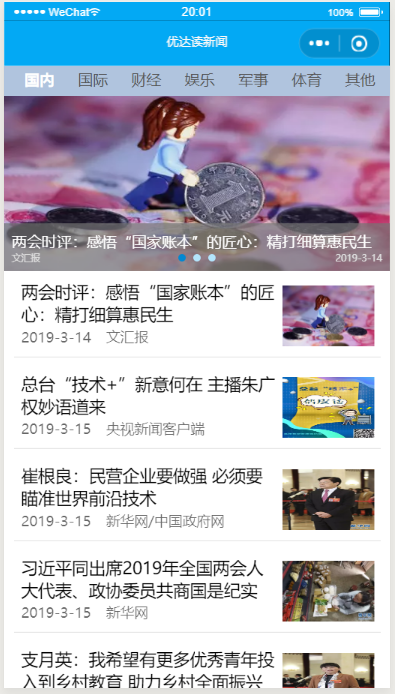
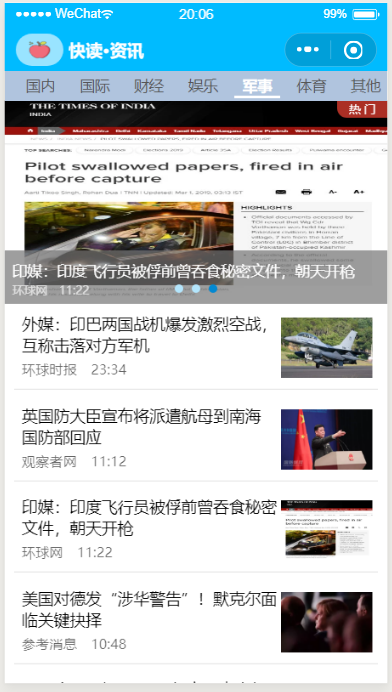
based on suggestions, change page design and effect

diff --git a/pages/index/index.js b/pages/index/index.js
@@ -9,6 +9,11 @@ const categoryMap = {
     'ty': '体育',
     'other': '其他',
 }
+//用于转换时间显示
+const formatNumber = n => {
+  n = n.toString()
+  return n[1] ? n : '0' + n
+}
 
 Page({
     data: {
@@ -21,21 +26,23 @@ Page({
         //     firstImage: 'http://inews.gtimg.com/newsapp_bt/0/3199649303/641'
         // }]
         swiperImgUrlList: [],
-        //category: 'gn', // str 当前类别
-        //selectedNewsType: '',
-        selectedCategory: 'gn', // str 当前类别
+        selectedCategory: 'gn', // str 当前类别，所选的类别
         categoryList: [
             { 'en': 'gn', 'cn': '国内' }
         ], // dict 类别字典
     },
 
     // 首次加载
+    //onLoad() 生命周期函数--监听页面加载，小程序注册完成后，加载页面，触发onLoad方法。
+    //调用时，设定新闻类别，再获取所选类别的新闻。
     onLoad() {
         this.setCategory()
         this.getNews()
     },
 
     // 设定顶部导航栏
+    // 将categoryMap中的值放进页面data的categoryList中
+    // categoryList中的数据在页面会被显示为导航栏内容，wxml中有显示的设置。
     setCategory() {
         let categoryList = []
         for (var key in categoryMap) {
@@ -48,8 +55,9 @@ Page({
             categoryList: categoryList
         })
     },
-//<div>Icons in the "images" folder made by <a href="https://www.flaticon.com/authors/flat-icons" title="Flat Icons">Flat Icons</a> from <a href="https://www.flaticon.com/"     title="Flaticon">www.flaticon.com</a></div>
+
     // 获取新闻列表
+    // 从新闻源获取新闻，由于用的Udacity提供的新闻源，并已定义好type，将selectedCategory传入，获取到相应栏目的新闻列表。
     getNews(callback) {
         wx.request({
             url: 'https://test-miniprogram.com/api/news/list',
@@ -60,7 +68,6 @@ Page({
             'content-type': 'application/json' // 默认值
             },
             success: res => {
-              //console.info(res); //print
               let newsContent = res.data.result;
               // 随机排序，模拟获取到的新闻列表发生变化，测试pulldownrefresh
               newsContent.sort(this.randomsort)
@@ -86,8 +93,9 @@ Page({
   setNewsList(newsContent) {
     let newsList = []
     newsContent.forEach(d => {
-      let newsDate = new Date(d.date);
-      d.date = `${newsDate.getFullYear()}-${newsDate.getMonth() + 1}-${newsDate.getDate()}`
+      let newsDate = new Date(d.date); //生成符合格式要求的时间信息
+      //d.date = `${newsDate.getFullYear()}-${newsDate.getMonth() + 1}-${newsDate.getDate()}`
+      d.date = [newsDate.getHours(), newsDate.getMinutes()].map(formatNumber).join(':')
     })
     for (let i = 0; i < newsContent.length; i += 1) {
       newsList.push({
@@ -96,7 +104,7 @@ Page({
         //time: moment(newsContent[i].date).fromNow(),
         time: newsContent[i].date,
         source: newsContent[i].source || '', //值不存在的情况
-        firstImage: newsContent[i].firstImage || "/images/news-img.png", //值不存在的情况
+        firstImage: newsContent[i].firstImage || "/images/006-apple.png", //值不存在的情况
             })
         }
         this.setData({
@@ -105,6 +113,7 @@ Page({
         })
     },
     // 变更当前栏目
+    // 点选的栏目赋值给selectedCategory
     onTapCategory(event) {
       this.setData({
         selectedCategory: event.currentTarget.dataset.category
@@ -112,6 +121,8 @@ Page({
         this.getNews()
     },
     // 跳转到详情页面
+    // 点选的新闻通过newsid在详情页面显示相应的新闻。
+    // newsid在wxml中有定义。
     onTapNews(event) {
         let newsID = event.currentTarget.dataset.newsid
         wx.navigateTo({
@@ -119,11 +130,13 @@ Page({
         })
     },
     // 下拉刷新
+    // 在index.json中将enablePullDownRefresh设为true，开启index页面的下拉刷新
+    // 用onPullDownRefresh()函数监听下拉动作，刷到新闻后，wx.stopPullDownRefresh()停止下拉刷新效果
     onPullDownRefresh() {
-        console.log("refresh executed!")
-
+        //console.log("refresh executed!")
         this.getNews(() => {
             wx.stopPullDownRefresh()
         })
     },
 })
+

diff --git a/components/navBar/navBar.js b/components/navBar/navBar.js
@@ -1,0 +1,103 @@
+// pages/navBar/navBar.js
+Component({
+  /**
+   * 组件的属性列表
+   */
+  properties: {
+    background: {
+      type: String,
+      value: 'rgba(255, 255, 255, 1)'
+    },
+    color: {
+      type: String,
+      value: 'rgba(0, 0, 0, 1)'
+    },
+    titleText: {
+      type: String,
+      value: '导航栏'
+    },
+    titleImg: {
+      type: String,
+      value: ''
+    },
+    backIcon: {
+      type: String,
+      value: ''
+    },
+    homeIcon: {
+      type: String,
+      value: ''
+    },
+    fontSize: {
+      type: Number,
+      value: 16
+    },
+    iconHeight: {
+      type: Number,
+      value: 19
+    },
+    iconWidth: {
+      type: Number,
+      value: 58
+    }
+  },
+  attached: function () {
+    var that = this;
+    that.setNavSize();
+    that.setStyle();
+  },
+  data: {
+
+  },
+  methods: {
+    // 通过获取系统信息计算导航栏高度
+    setNavSize: function () {
+      var that = this
+        , sysinfo = wx.getSystemInfoSync()
+        , statusHeight = sysinfo.statusBarHeight
+        , isiOS = sysinfo.system.indexOf('iOS') > -1
+        , navHeight;
+      if (!isiOS) {
+        navHeight = 48;
+      } else {
+        navHeight = 44;
+      }
+      that.setData({
+        status: statusHeight,
+        navHeight: navHeight
+      })
+    },
+    setStyle: function () {
+      var that = this
+        , containerStyle
+        , textStyle
+        , iconStyle;
+      containerStyle = [
+        'background:' + that.data.background
+      ].join(';');
+      textStyle = [
+        'color:' + that.data.color,
+        'font-size:' + that.data.fontSize + 'px'
+      ].join(';');
+      iconStyle = [
+        'width: ' + that.data.iconWidth + 'px',
+        'height: ' + that.data.iconHeight + 'px'
+      ].join(';');
+      that.setData({
+        containerStyle: containerStyle,
+        textStyle: textStyle,
+        iconStyle: iconStyle
+      })
+    },
+    // 返回事件
+    back: function () {
+      wx.navigateBack({
+        delta: 1
+      })
+      this.triggerEvent('back', { back: 1 })
+    },
+    home: function () {
+      this.triggerEvent('home', {});
+    }
+  }
+})

diff --git a/pages/detail/detail.js b/pages/detail/detail.js
@@ -1,4 +1,8 @@
 // pages/detail/detail.js
+const formatNumber = n => {
+  n = n.toString()
+  return n[1] ? n : '0' + n
+}
 
 Page({
   data: {
@@ -23,7 +27,8 @@ Page({
         // 设定文本概要信息
         let articleInfo = res.data.result
         let date = new Date(articleInfo.date)
-        articleInfo.time = `${date.getFullYear()}-${date.getMonth() + 1}-${date.getDate()} ${date.getHours()}:${date.getMinutes()}`
+        //articleInfo.time = `${date.getFullYear()}-${date.getMonth() + 1}-${date.getDate()} ${date.getHours()}:${date.getMinutes()}`
+        articleInfo.time = [date.getHours(), date.getMinutes()].map(formatNumber).join(':')
         this.setData({
           articleInfo: articleInfo,
         })
@@ -69,12 +74,5 @@ Page({
       } // end if
     } // end for
     return nodes;
-  },
-  // 下拉刷新
-  onPullDownRefresh() {
-    console.log("refresh executed!")
-    this.getArticle(() => {
-      wx.stopPullDownRefresh()
-    })
   },
 })

diff --git a/README.md b/README.md
@@ -12,11 +12,17 @@
 ## 已实现：
 - [x] 新闻列表、分类图文显示、详情页等基础功能。
 - [x] 使用 wx:for 动态的显示新闻分类部分，且导航栏浮动。
-- [x] 下拉手势激活刷新功能。
+- [x] 特定页面下拉手势激活刷新功能。
 
 ## 待实现：
 - [ ] 使用真实新闻API
+- [ ] 下拉刷新效果优化，真机测试
 
 ## 参考：
 - https://github.com/georgefeng/wx-news
 - https://github.com/NearZXH/wmp-news
+- https://github.com/gu-xiaohui/mini-components
+
+## 图标下载链接
+-- <div>Icons in the "images" folder made by <a href="https://www.flaticon.com/authors/flat-icons" title="Flat Icons">Flat Icons</a> from <a href="https://www.flaticon.com/"     title="Flaticon">www.flaticon.com</a></div>
+-- < div > Icons made by < a href = "https://www.flaticon.com/authors/gregor-cresnar" title = "Gregor Cresnar" > Gregor Cresnar</a > from < a href = "https://www.flaticon.com/"             title = "Flaticon" > www.flaticon.com</a ></div >
